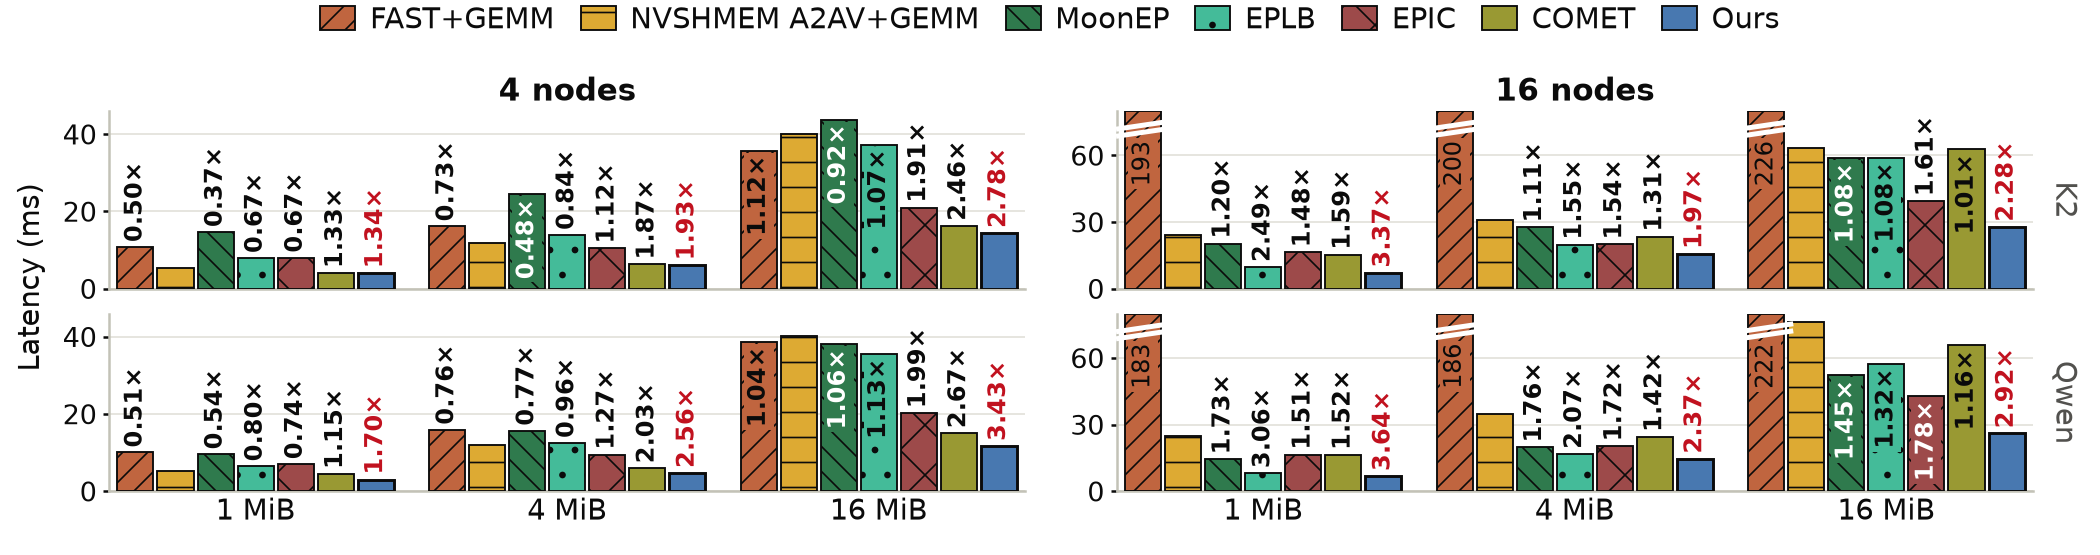
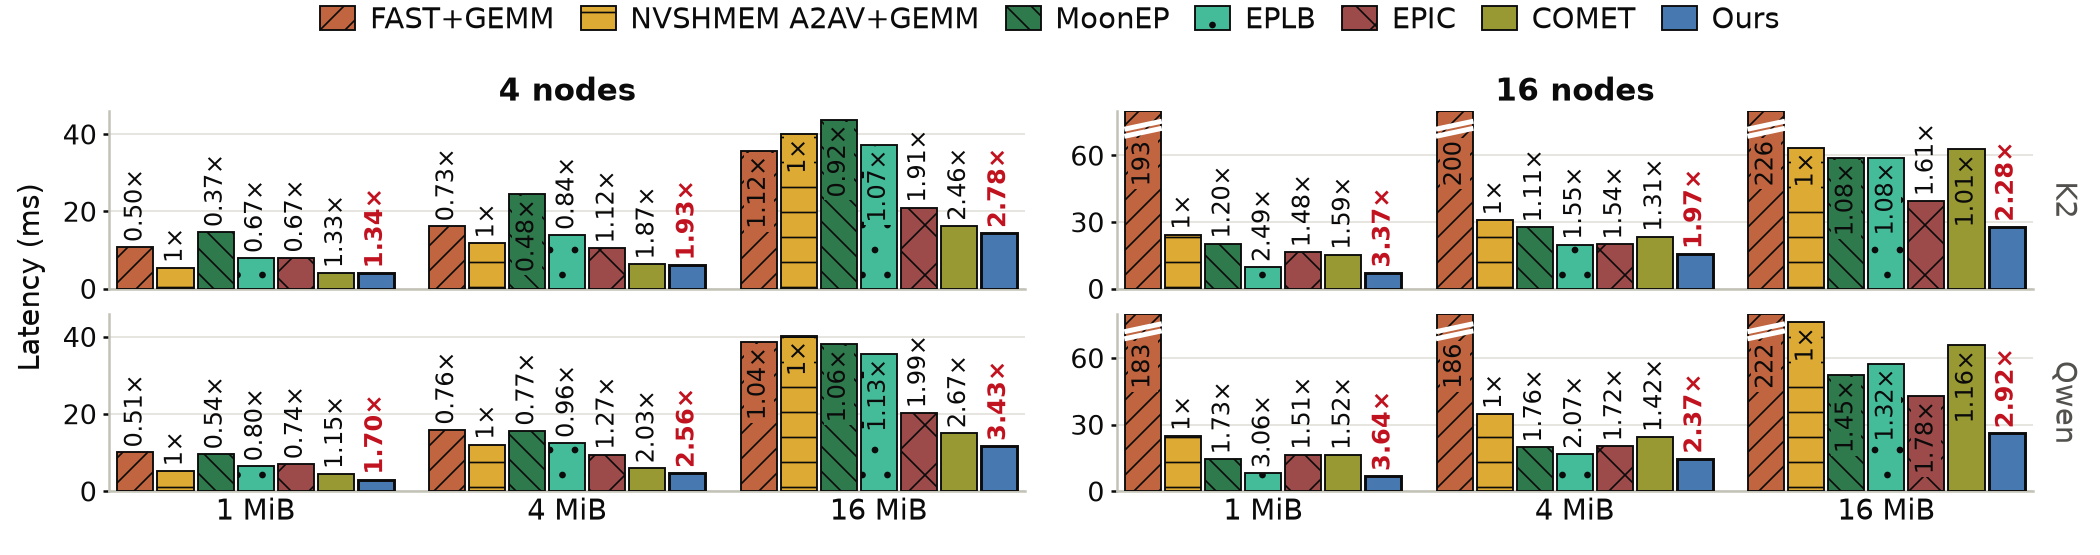
figs main_perf REV 2.1: label-style rulings — black inside labels, 1x reference mark, Ours-only bold, confined break glyph
Per review of REV 2: inside speedup labels use black ink (white only below
OKLCH L 0.40 — no current fill qualifies; verified legible in grayscale);
NVSHMEM bars carry a "1x" mark as the ratio reference; speedups regular
weight with Ours bold red; FAST break slashes confined to the bar
(halfw 0.52, clipped) so they no longer spill into neighbors/axes.
Rendered-extent audit: 84 labels, 0 overflow/overlap.

diff --git a/figs/main_perf/make_figure.py b/figs/main_perf/make_figure.py
@@ -67,7 +67,8 @@ CONFIG = dict(
     BREAK_MARK=dict(dy_frac=0.045,            # slash rise, frac of ylim
                     gap_frac=0.040,           # gap between the two slashes
                     y_frac=0.90,              # slash center height, frac ylim
-                    halfw=0.75,               # slash half-width, frac of bar w
+                    halfw=0.52,               # slash half-width, frac of bar w
+                                              # (<0.55 keeps it inside the slot)
                     lw=1.2, color="white"),
     TRUNC_LABEL_FMT="{:.0f}",                 # true value, inside truncated bar
     # ---- speedup annotations (SPEC 2.4) ----
@@ -75,7 +76,9 @@ CONFIG = dict(
         on=True,
         ref="nvshmem_gemm",                   # ratio = ref_total / bar_total
         fmt="{:.2f}×",                   # two decimals + multiplication sign
-        weight="bold",
+        ref_label="1×",                  # mark on the reference bar itself
+        weight="normal",                      # baselines: regular weight ...
+        ours_weight="bold",                   # ... Ours: bold
         color="#0b0b0b",                      # all systems ...
         ours_color="#c1121f",                 # ... except Ours, highlighted red
         placement="auto",                     # auto | inside | above
@@ -84,8 +87,10 @@ CONFIG = dict(
         bbox_mode="bar",     # inside-label backing: "bar" = solid window in the
                              # bar's own color (text auto white/black), "white"
         bbox_pad=0.12,       # backing padding, em
-        dark_text_L=0.60,    # OKLCH L below this -> white text on the window
-        skip_ref=True,                        # no "1.00x" on the reference bar
+        dark_text_L=0.40,    # OKLCH L below this -> white text on the window
+                             # (black otherwise; none of the current fills
+                             # are that dark, so all inside labels are black)
+        skip_ref=False,                       # reference bar carries ref_label
         skip_truncated=True,                  # truncated bars show value instead
     ),
     # ---- layout ----
@@ -165,7 +170,7 @@ def draw_break(ax, x, bar_w, ylim, cfg):
     for off in (-gap / 2, gap / 2):
         ax.plot([x - hw, x + hw], [y0 + off - dy / 2, y0 + off + dy / 2],
                 color=bm["color"], lw=bm["lw"], solid_capstyle="butt",
-                zorder=4, clip_on=False)
+                zorder=4, clip_on=True)
     return y0 - gap / 2 - dy / 2       # lowest point of the glyph (data units)
 
 
@@ -211,7 +216,7 @@ def label_len_data(ax, text, cfg, fontsize):
     return pts * ax._data_per_pt
 
 
-def place_speedup(ax, x, top, text, cfg, ylim, color, bar_color):
+def place_speedup(ax, x, top, text, cfg, ylim, color, bar_color, weight):
     """auto: above the bar when it fits under the ceiling, else inside."""
     sp = cfg["SPEEDUP"]
     fs = cfg["FONT_SIZES"]["annot"]
@@ -219,7 +224,7 @@ def place_speedup(ax, x, top, text, cfg, ylim, color, bar_color):
     mode = sp["placement"]
     if mode == "auto":
         mode = "above" if top + need <= ylim else "inside"
-    vlabel(ax, x, top, text, cfg, color=color, weight=sp["weight"],
+    vlabel(ax, x, top, text, cfg, color=color, weight=weight,
            where=mode, fontsize=fs, bar_color=bar_color)
 
 
@@ -272,9 +277,12 @@ def plot(data, cfg):
                             continue
                     if not sp["on"] or (sp["skip_ref"] and s == sp["ref"]):
                         continue
-                    place_speedup(ax, x, top, sp["fmt"].format(ref / v), cfg,
-                                  ylim, sp["ours_color"] if s == "OURS"
-                                  else sp["color"], cfg["COLORS"][s])
+                    text = (sp["ref_label"] if s == sp["ref"]
+                            else sp["fmt"].format(ref / v))
+                    place_speedup(ax, x, top, text, cfg, ylim,
+                                  sp["ours_color"] if s == "OURS" else sp["color"],
+                                  cfg["COLORS"][s],
+                                  sp["ours_weight"] if s == "OURS" else sp["weight"])
 
             ax.set_ylim(0, ylim)
             ax.set_xlim(-cfg["X_PAD"], len(cfg["BUDGETS"]) - 1 + cfg["X_PAD"])

diff --git a/figs/main_perf/SPEC.md b/figs/main_perf/SPEC.md
@@ -1,6 +1,6 @@
 # Main performance figure — aesthetic & architecture spec
 
-Status: REV 2 (2026-09-02, postdoc visual review applied — see §9). Data authority: `figure_src.csv` (+
+Status: REV 2.1 (2026-09-02, postdoc review + label-style rulings — see §9). Data authority: `figure_src.csv` (+
 `figure_src.md` provenance). Generator: `make_figure.py` (matplotlib, to be
 written after this spec is approved). Every value marked **[knob]** is a
 parameter in the generator's single `CONFIG` block — nothing aesthetic is
@@ -85,24 +85,31 @@ FAST at 16n (183–227 ms) would flatten every other bar. Mechanism
 
 ### 2.4 Speedup annotations (REV 2)
 
-Every bar except the reference and truncated bars carries its **speedup vs
-the NVSHMEM A2AV+GEMM baseline** in the same group:
-`ratio = NVSHMEM_total_ms / bar_total_ms` (> 1 = faster than NVSHMEM).
-**[knob: SPEEDUP]**
+Every non-truncated bar carries its **speedup vs the NVSHMEM A2AV+GEMM
+baseline** in the same group: `ratio = NVSHMEM_total_ms / bar_total_ms`
+(> 1 = faster than NVSHMEM). **[knob: SPEEDUP]**
 
-- Text `"{:.2f}×"` (two decimals + multiplication sign), **bold**, rotated 90°
-  reading bottom-to-top, centered on the bar.
-- Color: primary ink for baselines; **Ours in red `#c1121f`**
-  **[knob: SPEEDUP.ours_color]**.
-- Exclusions: the NVSHMEM bar itself (trivially 1.00×, `skip_ref`) and any
-  truncated bar (`skip_truncated`; it shows its true value instead, §2.3).
-  FAST therefore carries a ratio at 4n (not truncated) and none at 16n.
+- Text `"{:.2f}×"` (two decimals + multiplication sign), rotated 90° reading
+  bottom-to-top, centered on the bar.
+- **Weight (REV 2.1)**: regular for baselines, **bold only for Ours** — the
+  postdoc's "reduce strain" ruling **[knob: SPEEDUP.weight, ours_weight]**.
+- **Ink (REV 2.1)**: primary black for every label, including the inside
+  ones on dark fills; **Ours in red `#c1121f`** **[knob: SPEEDUP.ours_color]**.
+  White text on the inside window is reserved for fills darker than OKLCH
+  L 0.40 **[knob: dark_text_L]** — i.e. only when monochrome legibility is
+  genuinely at risk; none of the current fills qualify, so every inside
+  label is black (verified legible on the grayscale proof).
+- **The reference bar carries a "1×" mark (REV 2.1)** **[knob: ref_label]**
+  so readers see which bar the ratios are relative to; it obeys the same
+  placement and weight rules as any baseline label.
+- Exclusion: truncated bars (`skip_truncated`; they show their true value
+  instead, §2.3). FAST therefore carries a ratio at 4n (not truncated) and
+  its true value at 16n.
 - **Placement rule `auto` (above-first)**: the label sits *above* the bar
   when it fits under the y-ceiling; otherwise it sits *inside* the bar,
-  top-anchored, on a solid window in the bar's own color (text flips to
-  white on dark fills, OKLCH L < 0.60). This is what lets the ceiling hug
-  the tallest bar (§3) while short bars still label into the empty space
-  above them. `placement` may be forced to `above` or `inside`.
+  top-anchored, on a solid window in the bar's own color. This is what lets
+  the ceiling hug the tallest bar (§3) while short bars still label into the
+  empty space above them. `placement` may be forced to `above` or `inside`.
 - Fit is decided from an estimated glyph width (0.62 em, bold sans), and the
   generator's audit (§8) then verifies with matplotlib's *rendered* extents
   that no label crosses an axes edge or another label.
@@ -288,3 +295,8 @@ labels), secondary `#52514e` (in-axes model tags), muted `#898781`
      above short bars; the tallest bars host their label on a solid window
      of their own color. Truncated FAST bars show their true value inside
      instead of a ratio.
+- **REV 2.1 (2026-09-02) — label-style rulings after seeing REV 2:**
+  inside labels black (white only below OKLCH L 0.40 — none today); "1×"
+  mark on the NVSHMEM reference bars; speedups regular weight, Ours bold;
+  break glyph confined to its own bar (BREAK_MARK.halfw 0.75 -> 0.52,
+  clipped) — the last is a knob tweak, not a rule.
